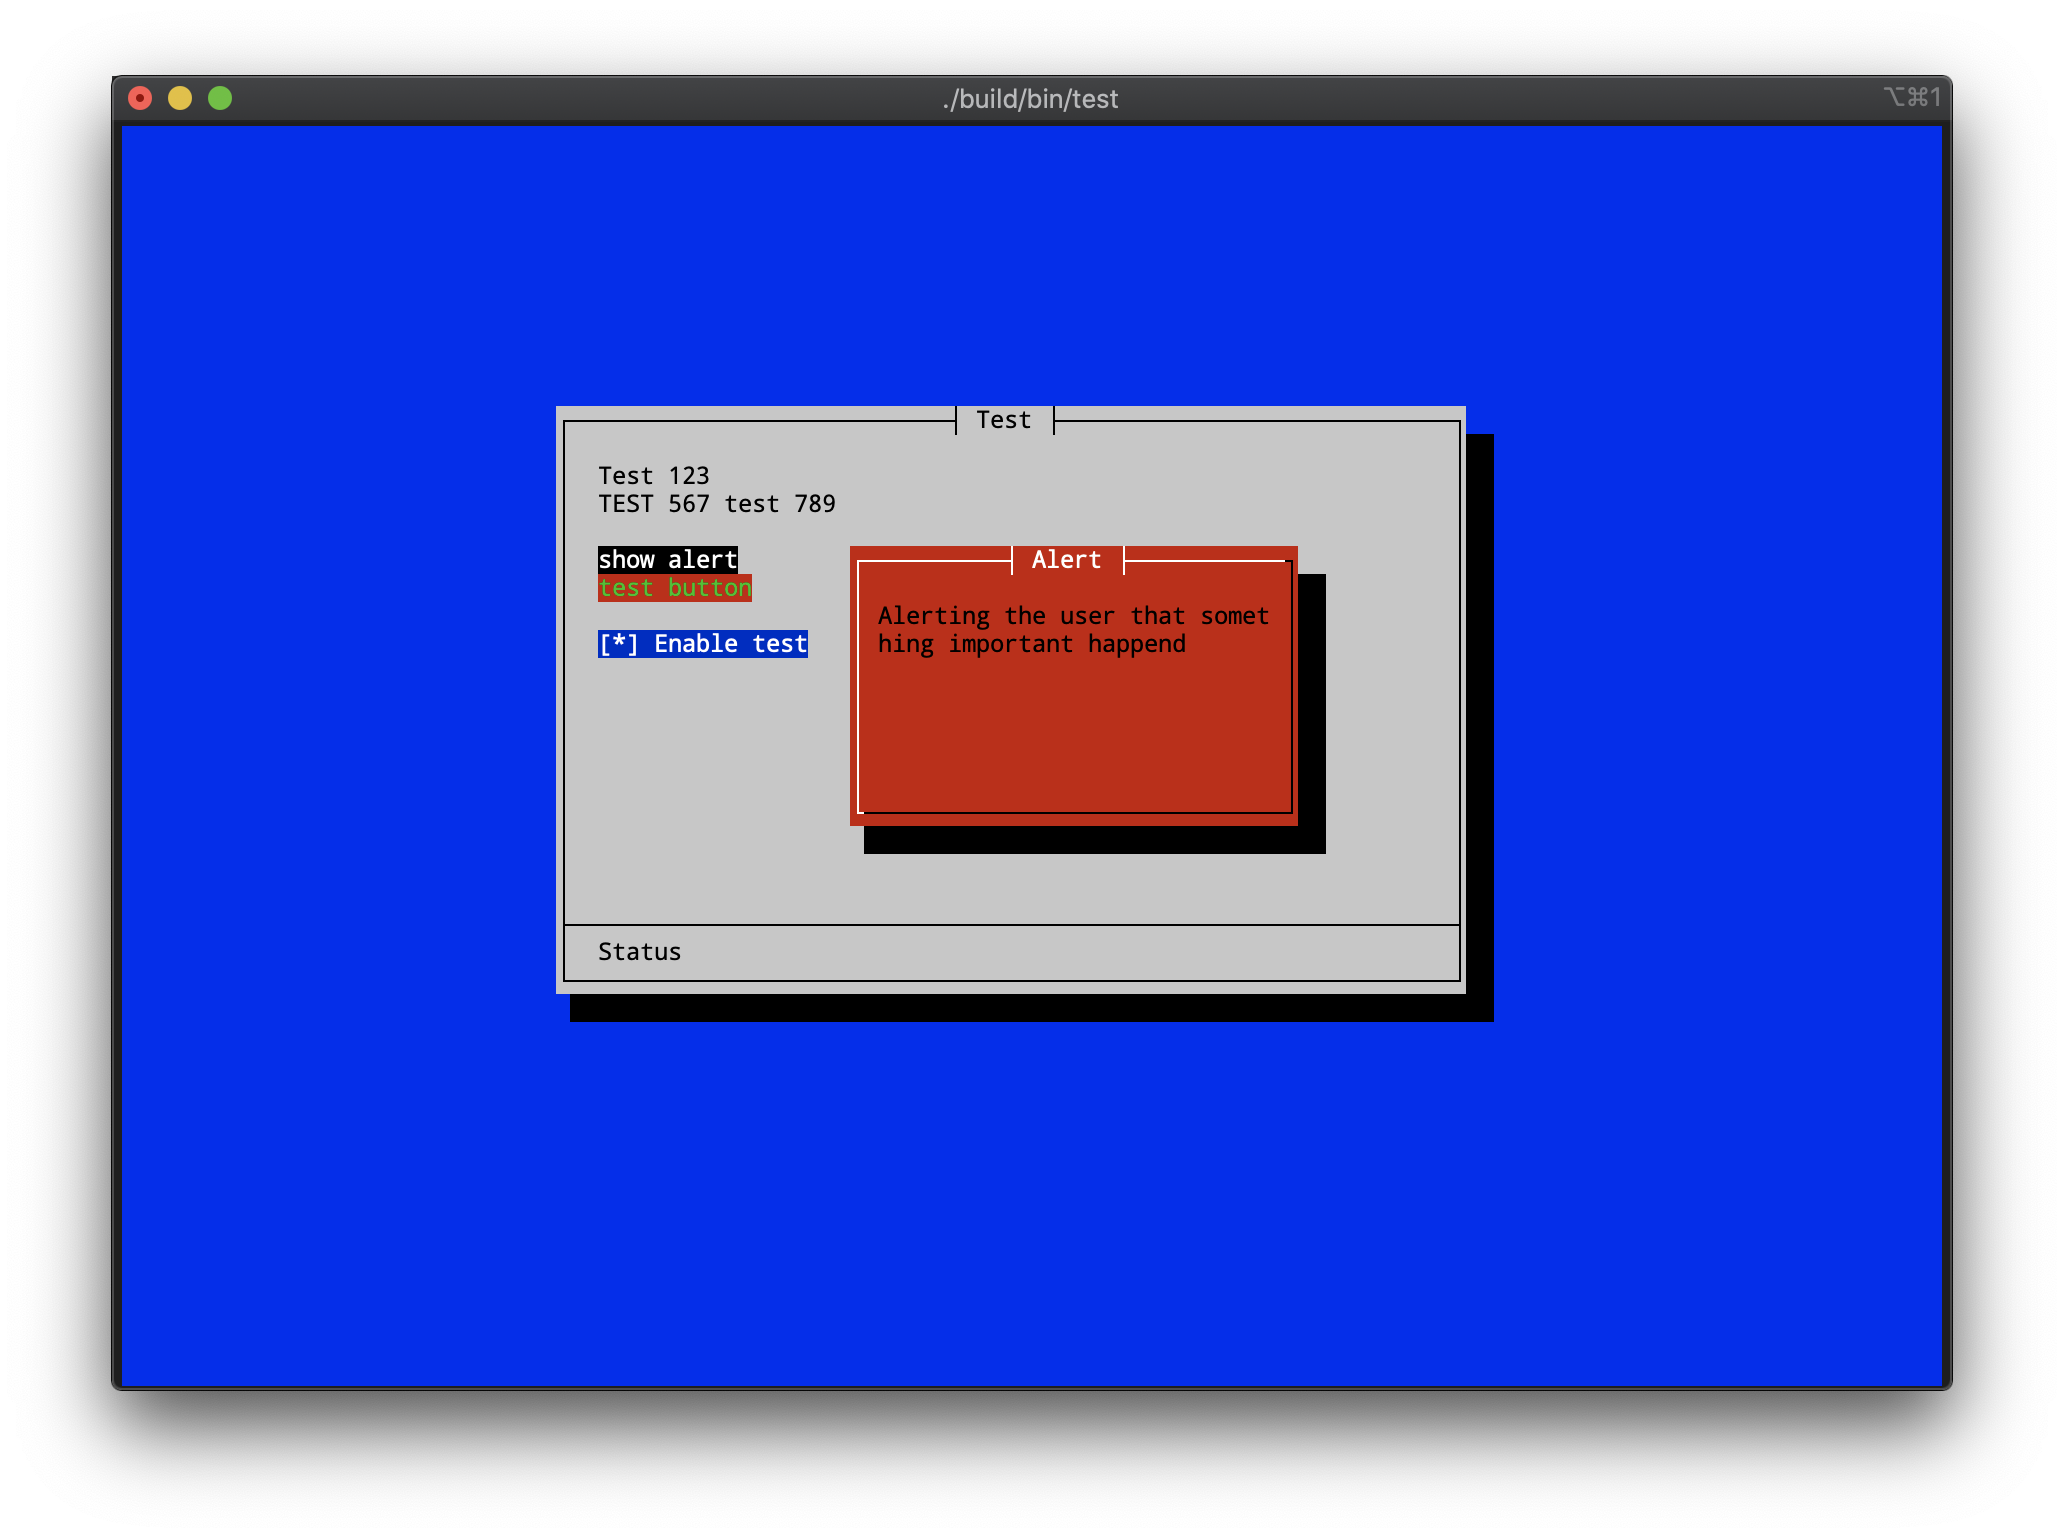
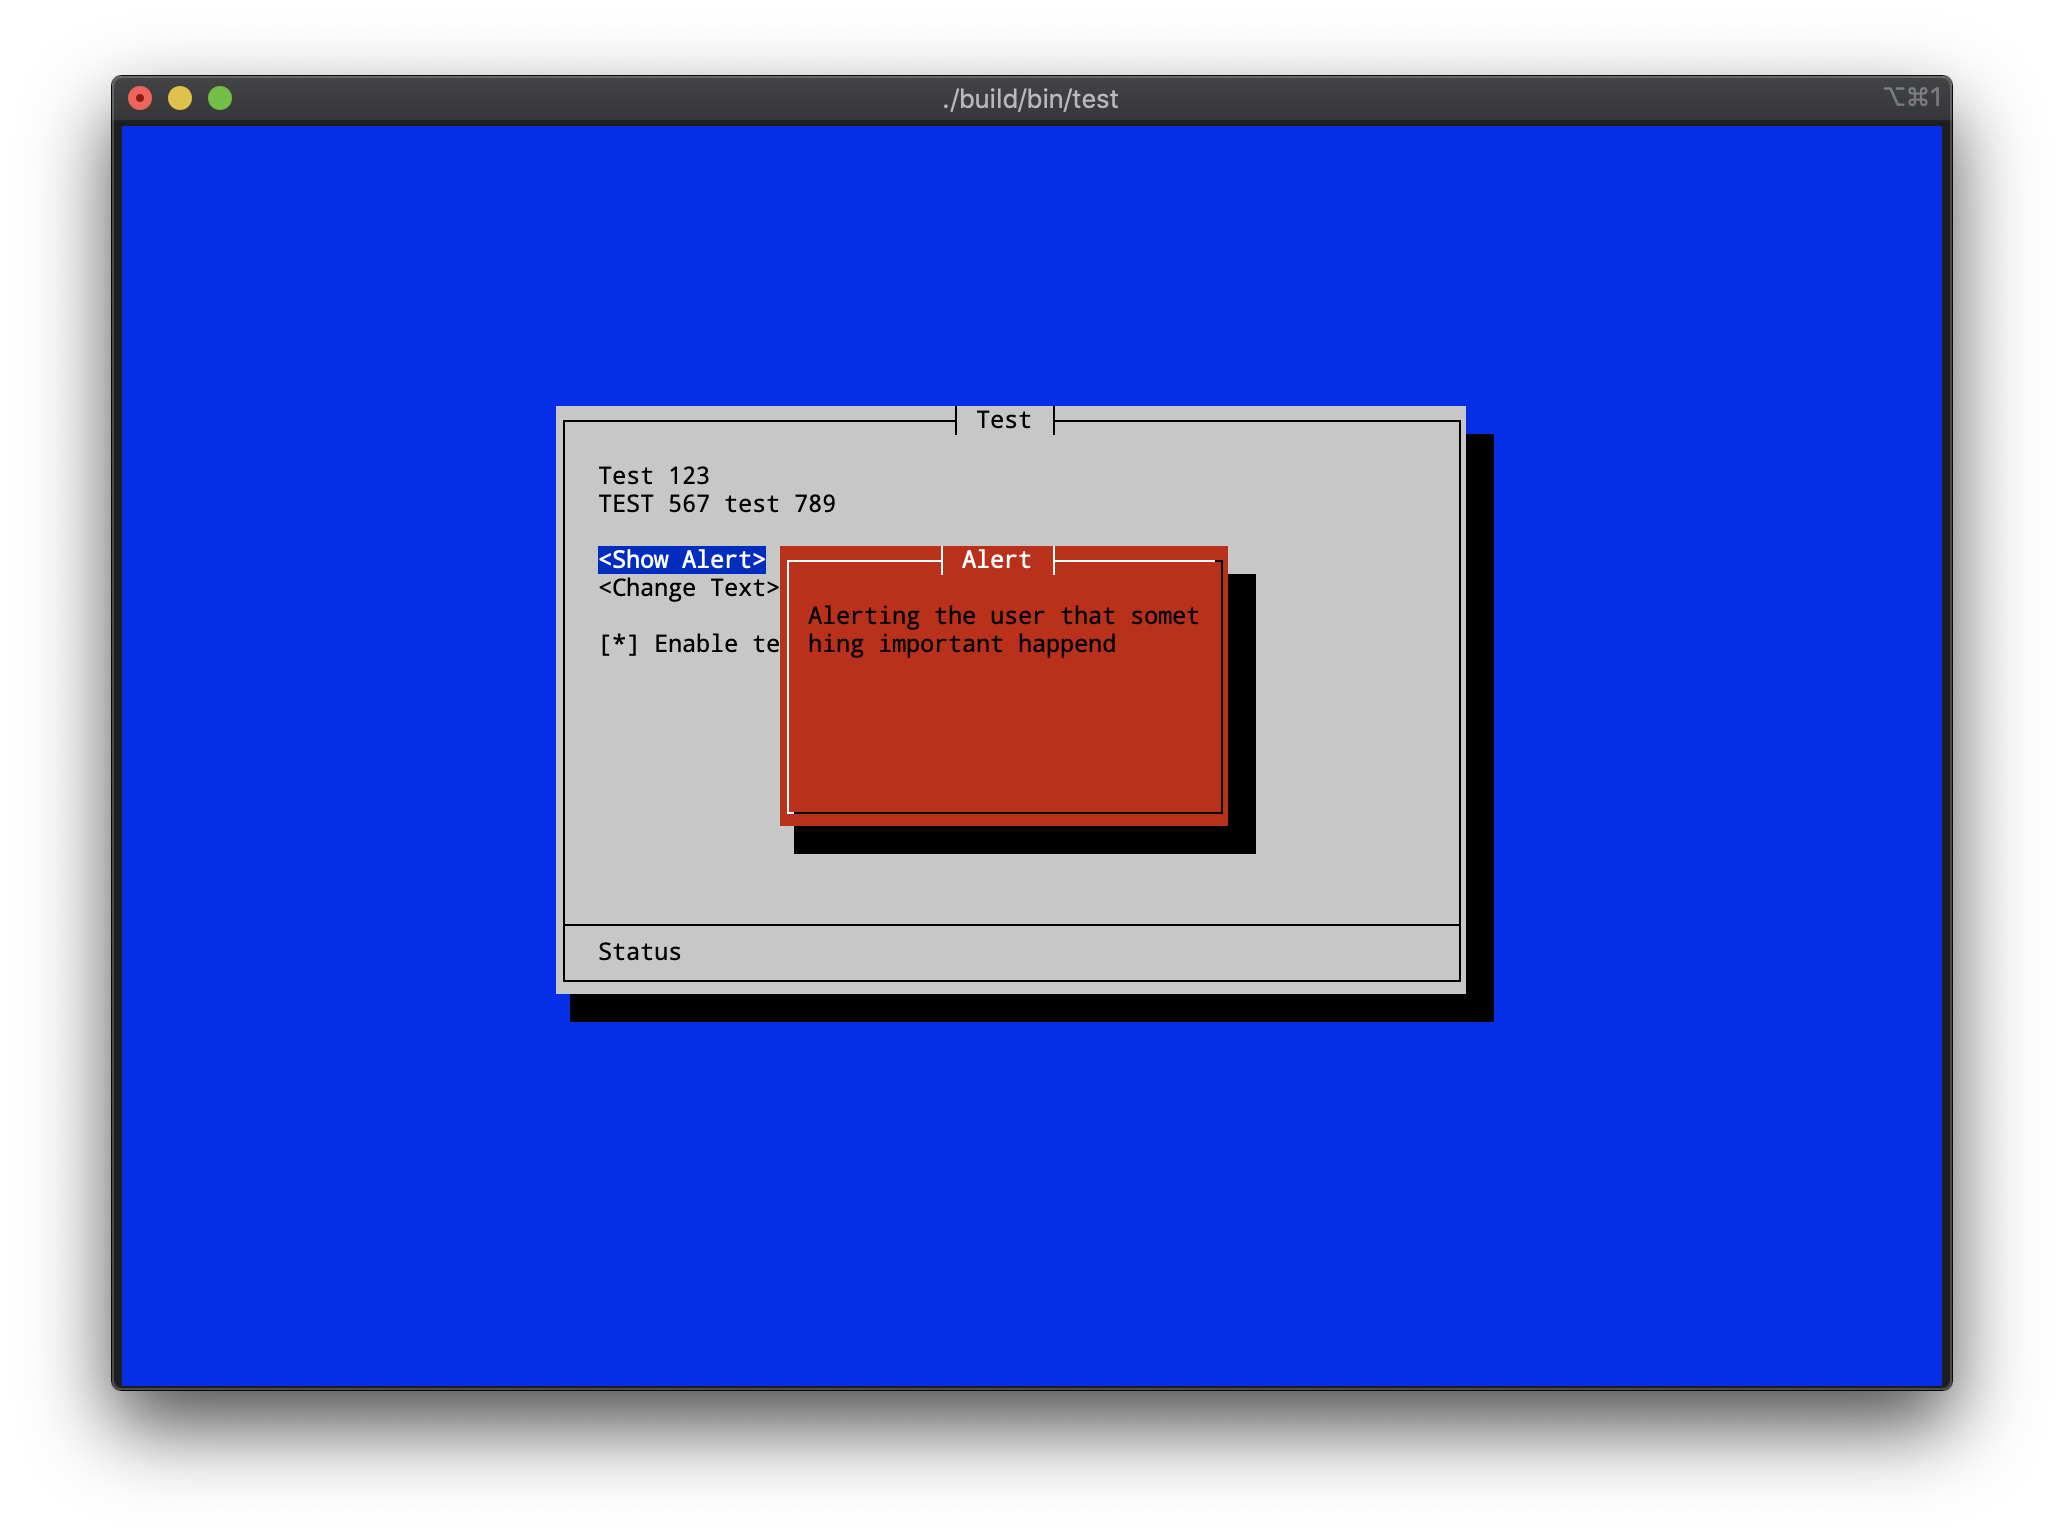
Implemented backwards cycling, updated example

Changed region(s): [[0.2791, 0.3433, 0.6512, 0.5618]]

diff --git a/test.cc b/test.cc
@@ -41,21 +41,21 @@ int main() {
           .fgColor = cterm::BLACK
         }),
         cterm::widget::Button::create({
-          .label = "show alert",
-          .bgColor = cterm::BLACK,
-          .fgColor = cterm::WHITE,
-          .selectBgColor = cterm::WHITE,
-          .selectFgColor = cterm::BLACK,
+          .label = "<Show Alert>",
+          .bgColor = cterm::GREY,
+          .fgColor = cterm::BLACK,
+          .selectBgColor = cterm::BLUE,
+          .selectFgColor = cterm::WHITE,
           .onClick = [&console]() {
             console.getPanelByTag("alert").active = !console.getPanelByTag("alert").active;
           }
         }),
         cterm::widget::Button::create({
-          .label = "test button",
-          .bgColor = cterm::RED,
-          .fgColor = cterm::GREEN,
-          .selectBgColor = cterm::GREEN,
-          .selectFgColor = cterm::RED,
+          .label = "<Change Text>",
+          .bgColor = cterm::GREY,
+          .fgColor = cterm::BLACK,
+          .selectBgColor = cterm::BLUE,
+          .selectFgColor = cterm::WHITE,
           .onClick = [&console]() {
             int& color = dynamic_cast<cterm::widget::Text*>(console.getPanelByTag("test_panel").getWidgetByTag("fill_text"))->fgColor;
             color = color == cterm::BLACK ? cterm::PURPLE : cterm::BLACK;
@@ -81,6 +81,7 @@ int main() {
   console.addPanel({
     .tag = "alert",
     .title = "Alert",
+    .active = false,
     .rows = console.getRows().percent(25),
     .cols = console.getCols().percent(25),
     .xoff = console.getCols()/8,
@@ -106,24 +107,12 @@ int main() {
     int c = cterm::io::getChar();
     switch (c) {
       case cterm::io::UP_ARROW:
-        console.getPanelByTag("alert").yoff--;
+        console.getPanelByTag("test_panel").cycleSelection(true);
         break;
       case cterm::io::DOWN_ARROW:
-        console.getPanelByTag("alert").yoff++;
-        break;
-      case cterm::io::LEFT_ARROW:
-        console.getPanelByTag("alert").xoff--;
-        break;
-      case cterm::io::RIGHT_ARROW:
-        console.getPanelByTag("alert").xoff++;
-        break;
-      case ' ':
-        console.getPanelByTag("alert").active = !console.getPanelByTag("alert").active;
-        break;
-      case 'n': // next button
         console.getPanelByTag("test_panel").cycleSelection();
         break;
-      case 's': // button select
+      case ' ':
         console.getPanelByTag("test_panel").toggleSelection();
         break;
       case 'q':

diff --git a/src/panel.cc b/src/panel.cc
@@ -45,14 +45,18 @@ cterm::Widget* cterm::Panel::getWidgetByTag(const std::string tag) const {
 void cterm::Panel::cycleSelection(bool backward) {
   layout->widgets[selectedIndex]->selected = false;
 
-  for (selectedIndex++; selectedIndex < layout->widgets.size(); selectedIndex++) {
-    if (layout->widgets[selectedIndex]->selectable) {
-      break;
-    }
-  }
-
-  if (selectedIndex + 1 >= layout->widgets.size()) {
-    selectedIndex = 0;
+  if (backward) {
+    for (selectedIndex--; selectedIndex >= 0; selectedIndex--)
+      if (layout->widgets[selectedIndex]->selectable)
+        break;
+    if (selectedIndex <= 0)
+      selectedIndex = layout->widgets.size()-1;
+  } else {
+    for (selectedIndex++; selectedIndex < layout->widgets.size(); selectedIndex++)
+      if (layout->widgets[selectedIndex]->selectable)
+        break;
+    if (selectedIndex + 1 >= layout->widgets.size())
+      selectedIndex = 0;
   }
 
   layout->widgets[selectedIndex]->selected = true;
